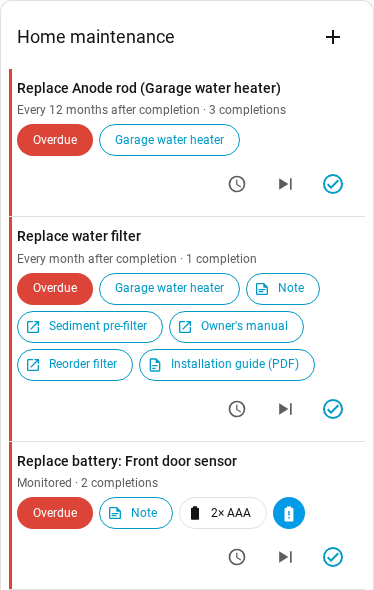
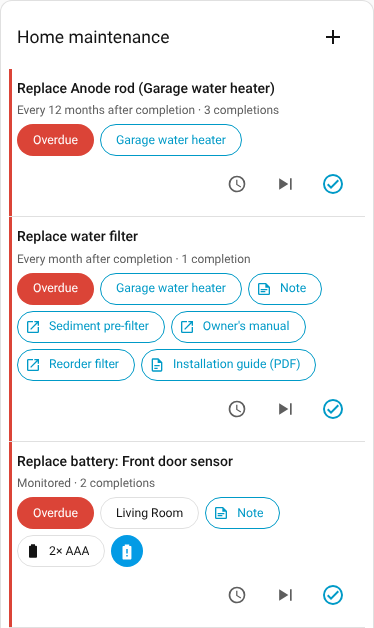
Show 1 place chip on a card row, device first
If the task has a device and the device name resolves, a card row shows
only the device chip. Else it shows the area chip. The editor option and
the show_area YAML key stay the same.

Claude-Session: https://claude.ai/code/session_01AbgWn36taiPAPydag7kgdJ

diff --git a/custom_components/home_keeper/frontend/test/card-device-chip.test.js b/custom_components/home_keeper/frontend/test/card-device-chip.test.js
@@ -3,7 +3,8 @@ import { HomeKeeperCard } from '../src/card.ts';
 
 // #446: a task's device chip on the card is a link for an admin, the same as on
 // the panel. It opens the appliance page if an appliance has the device, else the
-// device page. For other users it is a plain chip.
+// device page. For other users it is a plain chip. The row shows 1 chip for the
+// place: the device chip if the task has a device, else the area chip.
 beforeAll(() => {
   for (const tag of ['ha-card', 'ha-icon-button', 'ha-assist-chip', 'ha-alert', 'ha-spinner', 'ha-icon']) {
     if (!customElements.get(tag)) customElements.define(tag, class extends HTMLElement {});
@@ -39,7 +40,7 @@ const task = {
   area_id: 'kitchen',
 };
 
-function mount({ admin, assets = [], config = {} }) {
+function mount({ admin, assets = [], config = {}, row = task }) {
   const card = document.createElement('home-keeper-card');
   card.setConfig({ type: 'custom:home-keeper-card', ...config });
   document.body.appendChild(card);
@@ -55,7 +56,7 @@ function mount({ admin, assets = [], config = {} }) {
         if (!admin) throw new Error('unauthorized');
         return { assets };
       }
-      return { tasks: [task] };
+      return { tasks: [row] };
     },
   };
   return { card, calls };
@@ -86,12 +87,53 @@ describe('card device chip (#446)', () => {
     expect(location.pathname).toBe('/config/devices/device/dev1');
   });
 
-  it('shows the area and the device as 2 chips', async () => {
+  it('shows only the device chip when the task has an area and a device', async () => {
     const { card } = mount({ admin: true });
     await waitFor(() => card.shadowRoot?.querySelector('.hk-device-chip'));
     const labels = chips(card).map((c) => c.getAttribute('label'));
-    expect(labels).toContain('Kitchen');
     expect(labels).toContain('Dishwasher');
+    expect(labels).not.toContain('Kitchen');
+  });
+
+  it('shows only the device chip for a non-admin when the task has an area and a device', async () => {
+    const { card } = mount({ admin: false });
+    await waitFor(() => card.shadowRoot?.querySelector('.hk-row'));
+    const labels = chips(card).map((c) => c.getAttribute('label'));
+    expect(labels).toContain('Dishwasher');
+    expect(labels).not.toContain('Kitchen');
+  });
+
+  it('shows the area chip when the task has an area and no device', async () => {
+    const { card } = mount({ admin: true, row: { ...task, device_id: null } });
+    await waitFor(() => card.shadowRoot?.querySelector('.hk-row'));
+    const labels = chips(card).map((c) => c.getAttribute('label'));
+    expect(labels).toContain('Kitchen');
+    expect(labels).not.toContain('Dishwasher');
+    expect(card.shadowRoot.querySelector('.hk-device-chip')).toBeNull();
+  });
+
+  it('shows the area chip when the device name does not resolve', async () => {
+    const { card } = mount({ admin: true, row: { ...task, device_id: 'gone' } });
+    await waitFor(() => card.shadowRoot?.querySelector('.hk-row'));
+    const labels = chips(card).map((c) => c.getAttribute('label'));
+    expect(labels).toContain('Kitchen');
+    expect(card.shadowRoot.querySelector('.hk-device-chip')).toBeNull();
+  });
+
+  it('shows the device chip when the task has a device and no area', async () => {
+    const { card } = mount({ admin: true, row: { ...task, area_id: null } });
+    await waitFor(() => card.shadowRoot?.querySelector('.hk-device-chip'));
+    const labels = chips(card).map((c) => c.getAttribute('label'));
+    expect(labels).toContain('Dishwasher');
+    expect(labels).not.toContain('Kitchen');
+  });
+
+  it('shows no place chip when the task has no area and no device', async () => {
+    const { card } = mount({ admin: true, row: { ...task, area_id: null, device_id: null } });
+    await waitFor(() => card.shadowRoot?.querySelector('.hk-row'));
+    const labels = chips(card).map((c) => c.getAttribute('label'));
+    expect(labels).not.toContain('Dishwasher');
+    expect(labels).not.toContain('Kitchen');
   });
 
   it('is a plain chip for a non-admin, and does not ask for appliances', async () => {
@@ -102,7 +144,7 @@ describe('card device chip (#446)', () => {
     expect(calls).not.toContain('home_keeper/get_assets');
   });
 
-  it('shows no area or device chip when show_area is off', async () => {
+  it('shows no place chip when show_area is off', async () => {
     const { card } = mount({ admin: true, config: { show_area: false } });
     await waitFor(() => card.shadowRoot?.querySelector('.hk-row'));
     const labels = chips(card).map((c) => c.getAttribute('label'));

diff --git a/tests/e2e/screenshots-card.capture.ts b/tests/e2e/screenshots-card.capture.ts
@@ -123,6 +123,40 @@ async function shotDialog(page: Page, dialog: Locator, path: string): Promise<vo
   });
 }
 
+/**
+ * Put 2 of the top rows in a room, or take them out again (`room` false). The anode
+ * rod has a device, so its row still shows only the device chip. The door battery has
+ * no device, so its row shows the area chip. The card shows 1 chip for the place.
+ * An area change leaves the to-do item as it was, so the card gets no update. Open the
+ * dashboard again to read the tasks again.
+ */
+async function placeTopRows(page: Page, room: boolean): Promise<void> {
+  await page.evaluate(
+    async ({ IDS, room }) => {
+      // eslint-disable-next-line @typescript-eslint/no-explicit-any
+      const hass = (document.querySelector('home-assistant') as any)?.hass;
+      if (!hass) return;
+      let areaId = '';
+      if (room) {
+        // HA's onboarding seeds a handful of areas; reuse one (see step 42 of
+        // screenshots.capture.ts).
+        // eslint-disable-next-line @typescript-eslint/no-explicit-any
+        const areas: any[] = await hass.callWS({ type: 'config/area_registry/list' });
+        const area =
+          areas.find((a) => a.area_id === 'living_room') ??
+          areas[0] ??
+          (await hass.callWS({ type: 'config/area_registry/create', name: 'Living Room' }));
+        areaId = area.area_id;
+      }
+      for (const id of [IDS.TASK.anode, IDS.TASK.doorBattery]) {
+        await hass.callService('home_keeper', 'update_task', { task_id: id, area_id: areaId });
+      }
+    },
+    { IDS: { TASK }, room },
+  );
+  await openCardDashboard(page);
+}
+
 test('capture Home Keeper card screenshots', async ({ page }) => {
   // Tall viewport so even the second (grouped) card sits above the fold and its
   // clip stays inside the rendered image. The default card carries the water-filter
@@ -313,8 +347,15 @@ test('capture Home Keeper card screenshots', async ({ page }) => {
 
   // 6b. The device chip on a row is a link (#446). The water-filter row's chip names
   // its appliance device and opens the appliance page, the same as the panel's chip.
+  // A row shows 1 chip for the place: the anode rod is in a room and has a device, so
+  // it shows only the device chip. The door battery has no device and shows its area.
+  await placeTopRows(page, true);
+  const roomChip = card.locator('.hk-row ha-assist-chip[label="Living Room"]');
+  await expect(roomChip).toHaveCount(1);
   await expect(card.locator('.hk-device-chip').first()).toBeVisible();
   await shotCardTop(page, card, `${OUT}/card-device-chip.png`, 3);
+  await placeTopRows(page, false);
+  await expect(roomChip).toHaveCount(0);
 
   // 7a. Rows with the schedule and the completion count turned off (#432). Compare
   // with card-note-chip.png, which shows the same 3 rows with the defaults.
@@ -347,9 +388,14 @@ test('capture Home Keeper card screenshots', async ({ page }) => {
   await mobileNoteDialog.locator('ha-button', { hasText: 'Close' }).click();
   await expect(page.locator('ha-dialog[open]')).toHaveCount(0);
 
-  // 7b1. The device chip link from step 6b at phone width (#446).
+  // 7b1. The device chip link and the area chip from step 6b at phone width (#446).
+  await placeTopRows(page, true);
+  const mobileRoomChip = mobileCard.locator('.hk-row ha-assist-chip[label="Living Room"]');
+  await expect(mobileRoomChip).toHaveCount(1);
   await expect(mobileCard.locator('.hk-device-chip').first()).toBeVisible();
   await shotCardTop(page, mobileCard, `${OUT}/card-device-chip-mobile.png`, 3);
+  await placeTopRows(page, false);
+  await expect(mobileRoomChip).toHaveCount(0);
 
   // 7b2. The compact rows from step 7a at phone width (#432).
   await mobileCard.evaluate((el: ConfigurableCard, c) => el.setConfig(c), compact);

diff --git a/custom_components/home_keeper/frontend/src/card.ts b/custom_components/home_keeper/frontend/src/card.ts
@@ -1256,12 +1256,14 @@ export class HomeKeeperCard extends HTMLElement {
       const icon = escapeHTML(mb.icon || 'mdi:puzzle');
       managedChip = `<span class="hk-managed" title="${tip}" role="img" aria-label="${tip}"><ha-icon icon="${icon}"></ha-icon></span>`;
     }
+    // 1 chip for the place: the device chip if the device name resolves, else the
+    // area chip.
     let areaChip = '';
     if (this._config.show_area !== false) {
-      const area = areaName(this._hass?.areas, task.area_id);
       const dev = task.device_id ? deviceName(this._hass?.devices, task.device_id) : '';
-      if (area) areaChip = `<ha-assist-chip label="${escapeHTML(area)}"></ha-assist-chip>`;
-      if (dev) areaChip += this._deviceChip(task, dev);
+      const area = dev ? '' : areaName(this._hass?.areas, task.area_id);
+      if (dev) areaChip = this._deviceChip(task, dev);
+      else if (area) areaChip = `<ha-assist-chip label="${escapeHTML(area)}"></ha-assist-chip>`;
     }
     // The NFC/RFID binding. The card never fetches HA's tag registry (it stays as
     // light as it can), so the chip is a generic marker rather than the tag's name —

diff --git a/docs/guide/views/dashboard-card.md b/docs/guide/views/dashboard-card.md
@@ -45,13 +45,16 @@ number of completions. Use these card editor options to control each row:
 | **Show schedule** | On | The schedule, such as "Every month after completion" |
 | **Show completion count** | On | The number of completions, such as "2 completions" |
 | **Show notes** | Off | The task note |
-| **Show area / device** | On | The area chip and the device chip |
+| **Show area / device** | On | The device chip, else the area chip |
 | **Show labels** | Off | The label chips |
+
+A row shows 1 chip for the place. If the task has a device, the row shows the device chip.
+Else the row shows the area chip.
 
 For an admin, the device chip is a link. It opens the appliance page in Home Keeper if an
 appliance has the device. Else it opens the device page in Home Assistant.
 
-![Home Keeper card rows with a device chip that links to the appliance page](../../images/card-device-chip.png)
+![Home Keeper card rows with device chips and 1 area chip](../../images/card-device-chip.png)
 
 In YAML, the keys are `show_schedule`, `show_history_count`, `show_notes`, `show_area`
 and `show_labels`. If you turn off both **Show schedule** and **Show completion count**,

diff --git a/CHANGELOG.md b/CHANGELOG.md
@@ -28,6 +28,8 @@ versioning, with PEP 440 pre-release suffixes (`bN`/`aN`/`rcN`) for betas.
   a profile filter that this Home Assistant does not have. The profile keeps the ids.
 - **Upload size refusal.** An import upload stops at once when a YAML file passes 8 MB or
   a form field passes 64 KB, and the panel shows the reason.
+- **One place chip on card rows.** If a task has a device, its card row shows the device
+  chip. Else the row shows the area chip.
 
 ### Fixed
 

diff --git a/docs/design/frontend.md b/docs/design/frontend.md
@@ -30,7 +30,7 @@ implements:
   - custom_components/home_keeper/card_resource.py
   - custom_components/home_keeper/backend_i18n.py
 related: [architecture, coordinator-entities, events-api, profiles-notifications]
-source_hash: 05f04bb9f5b2
+source_hash: 0b4e455e90ae
 ---
 
 # Frontend
